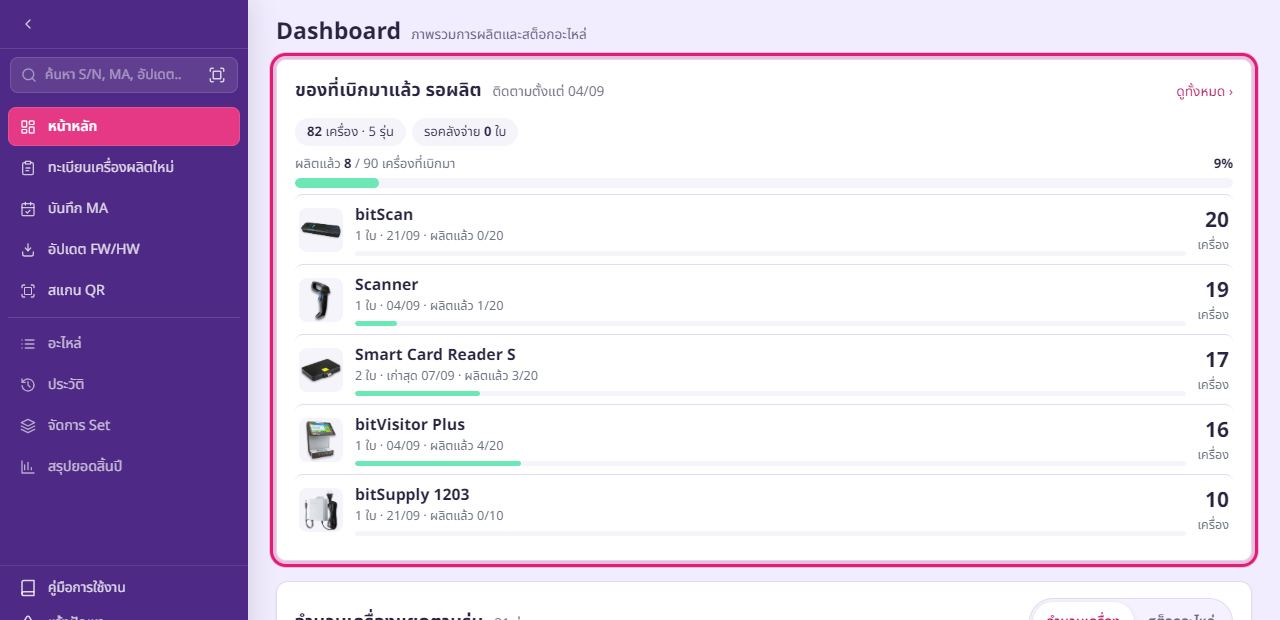
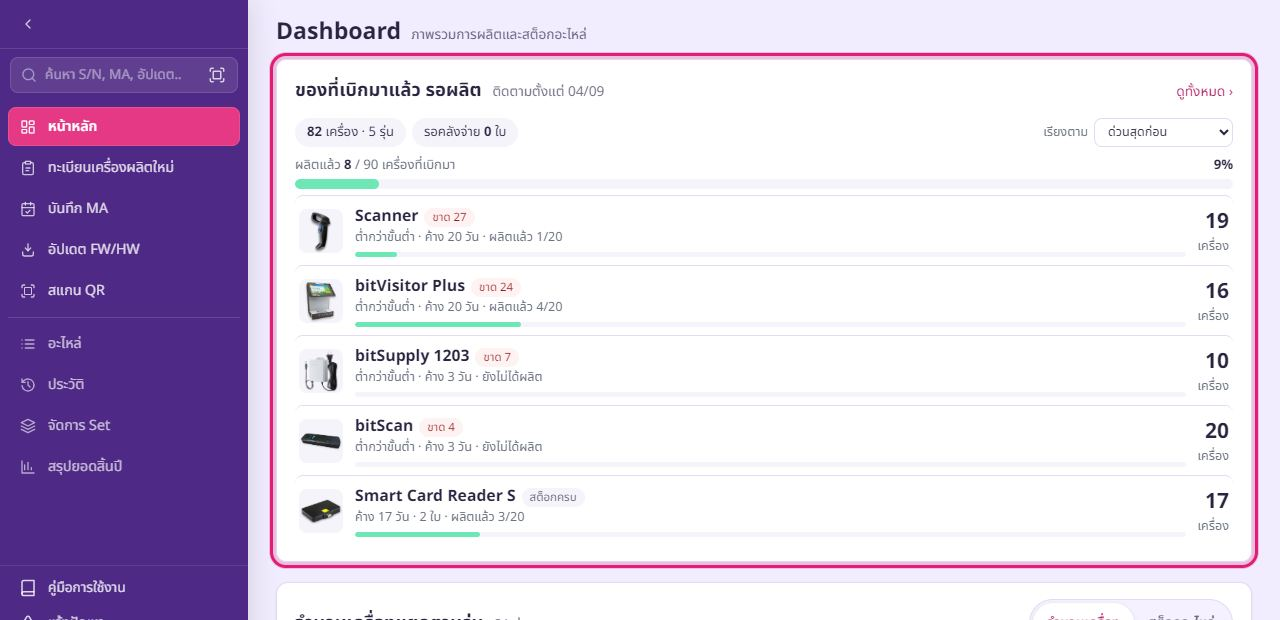
Show how urgent each withdrawn model is to build

diff --git a/finishgoogs_ma_update/assets/theme-v2.css b/finishgoogs_ma_update/assets/theme-v2.css
@@ -959,6 +959,14 @@ input:focus-visible, select:focus-visible, textarea:focus-visible, button:focus-
 .dash-pk-nm { flex: 1; min-width: 0; overflow-wrap: anywhere; }
 .dash-pk-nm small { display: block; color: var(--muted, #6b7280); font-size: calc(12px * var(--font-scale, 1)); }
 .dash-pk-miss { display: inline-block; font-size: 11.5px; background: #fef3c7; color: #854d0e; border-radius: 6px; padding: 0 6px; font-weight: 400; }
+/* ป้ายความขาดสต็อกของรุ่นนั้น — สี 3 ระดับเดียวกับหัวกลุ่มในตารางรุ่น */
+.dash-pk-tag { display: inline-block; margin-left: 6px; font-size: 11.5px; font-weight: 400; border-radius: 999px; padding: 1px 8px; }
+.dash-pk-tag.is-st0 { background: #fef2f2; color: #991b1b; }
+.dash-pk-tag.is-st1 { background: #fffbeb; color: #92400e; }
+.dash-pk-tag.is-st2 { background: var(--surface-2, #f6f4fb); color: var(--muted, #6b7280); }
+.dash-pk-sort { display: inline-flex; align-items: center; gap: 6px; margin-left: auto; font-size: calc(12px * var(--font-scale, 1)); color: var(--muted, #6b7280); white-space: nowrap; }
+.dash-pk-sort select { width: auto; min-width: 0; padding: 3px 24px 3px 9px; min-height: 0; font-size: calc(12px * var(--font-scale, 1)); }
+@media (max-width: 480px) { .dash-pk-sort { margin-left: 0; width: 100%; } .dash-pk-sort select { flex: 1; } }
 .dash-pk-q { text-align: right; font-size: calc(12px * var(--font-scale, 1)); color: var(--muted, #6b7280); white-space: nowrap; }
 .dash-pk-q b { display: block; font-size: calc(20px * var(--font-scale, 1)); color: var(--text, #2a2440); }
 .dash-pk-more { display: inline-block; margin-top: 6px; font-size: calc(13px * var(--font-scale, 1)); }

diff --git a/finishgoogs_ma_update/index.php b/finishgoogs_ma_update/index.php
@@ -457,6 +457,13 @@ $partsBase = ui_parts_base_url();
     <a class="dash-pk-stat" href="<?= h($B) ?>/inv_pickups.php?tab=waiting">รอคลังจ่าย <b id="dash-pk-waiting">—</b> ใบ</a>
     <a class="dash-pk-stat is-warn" id="dash-pk-unmatched-pill" href="<?= h($B) ?>/inv_pickups.php?tab=unmatched"
        title="เครื่องที่ลงทะเบียนตอนรุ่นนั้นไม่มีใบเบิกจาก inventory ค้างอยู่ — จับคู่กับใบเบิกทีหลังได้">ลงทะเบียนโดยไม่มีใบเบิก <b id="dash-pk-unmatched">—</b></a>
+    <label class="dash-pk-sort" for="dash-pk-sort"><span>เรียงตาม</span>
+      <select id="dash-pk-sort">
+        <option value="urgent">ด่วนสุดก่อน</option>
+        <option value="oldest">เบิกเก่าสุดก่อน</option>
+        <option value="left">เหลือมากสุดก่อน</option>
+      </select>
+    </label>
   </div>
   <div class="dash-pk-prog" id="dash-pk-prog" hidden>
     <div class="dash-pk-prog-lb"><span>ผลิตแล้ว <b id="dash-pk-done">0</b> / <span id="dash-pk-qty">0</span> เครื่องที่เบิกมา</span><b id="dash-pk-pct">0%</b></div>
@@ -757,20 +764,55 @@ $partsBase = ui_parts_base_url();
       document.getElementById('dash-pk-bar').style.cssText = 'width:' + pctOf(d.done, d.qty) + '%;background:' + d.bar;
       document.getElementById('dash-pk-prog').hidden = !d.qty;
       // รายรุ่น 5 อันดับแรก — กดแถวเปิด popup รายละเอียด (ใบเบิก · ของที่ยังไม่จ่าย · อะไหล่ที่จ่ายแล้ว)
+      // ป้าย = ความขาดสต็อกของรุ่นนั้น (เกณฑ์เดียวกับตารางรุ่นด้านล่าง) · บรรทัดรองบอกว่าของค้างมากี่วัน
       var SHOW = 5, list = document.getElementById('dash-pk-list'), models = d.models || [];
-      list.innerHTML = models.length ? models.slice(0, SHOW).map(function (m) {
-        return '<button type="button" class="dash-pk-row" data-grp="' + esc(m.grp) + '" data-name="' + esc(m.name) + '">'
-          + (m.icon ? '<img src="' + esc(m.icon) + '" alt="" class="dash-pk-img" loading="lazy">' : '<span class="dash-pk-img dash-pk-noimg"></span>')
-          + '<span class="dash-pk-nm"><b>' + esc(m.name) + '</b>'
-          + (m.missing.length ? ' <span class="dash-pk-miss">' + esc(m.missing.slice(0, 2).join(', ')) + ' ยังไม่จ่าย</span>' : '')
-          + '<small>' + m.docs + ' ใบ · ' + (m.docs > 1 ? 'เก่าสุด ' : '') + esc(m.oldest)
-          + ' · ผลิตแล้ว ' + fgNum(m.done) + '/' + fgNum(m.qty) + '</small>'
-          + '<span class="pk-bar pk-bar-row"><span style="width:' + pctOf(m.done, m.qty) + '%;background:' + d.bar + '"></span></span></span>'
-          + '<span class="dash-pk-q"><b>' + fgNum(m.left) + '</b>เครื่อง</span></button>';
-      }).join('') : '<p class="muted" style="margin:6px 0 0">ไม่มีของที่เบิกมารอผลิต</p>';
+      var stageLabel = ['ต่ำกว่าขั้นต่ำ', 'ไม่พอส่ง PO', ''];
+      var pkSorters = {
+        urgent: function (a, b) { return a.stage - b.stage || b.gap - a.gap || b.days - a.days || b.left - a.left; },
+        oldest: function (a, b) { return b.days - a.days || a.stage - b.stage || b.left - a.left; },
+        left: function (a, b) { return b.left - a.left || a.stage - b.stage || b.days - a.days; }
+      };
+      var pkSortSel = document.getElementById('dash-pk-sort');
+      var pkSort = 'urgent';
+      try { pkSort = localStorage.getItem('dash_pk_sort') || 'urgent'; } catch (e) {}
+      if (!pkSorters[pkSort]) { pkSort = 'urgent'; }
       var more = document.getElementById('dash-pk-more');
-      more.hidden = models.length <= SHOW;
-      more.textContent = '+ อีก ' + (models.length - SHOW) + ' รุ่น ›';
+      function drawPk() {
+        if (!models.length) {
+          list.innerHTML = '<p class="muted" style="margin:6px 0 0">ไม่มีของที่เบิกมารอผลิต</p>';
+          more.hidden = true;
+          return;
+        }
+        var rows = models.slice().sort(pkSorters[pkSort]);
+        list.innerHTML = rows.slice(0, SHOW).map(function (m) {
+          var tag = m.gap > 0
+            ? '<span class="dash-pk-tag is-st' + m.stage + '">ขาด ' + fgNum(m.gap) + '</span>'
+            : '<span class="dash-pk-tag is-st2">สต็อกครบ</span>';
+          var sub = [];
+          if (stageLabel[m.stage]) { sub.push(stageLabel[m.stage]); }
+          sub.push('ค้าง ' + fgNum(m.days) + ' วัน');
+          if (m.docs > 1) { sub.push(m.docs + ' ใบ'); }
+          sub.push(m.done > 0 ? 'ผลิตแล้ว ' + fgNum(m.done) + '/' + fgNum(m.qty) : 'ยังไม่ได้ผลิต');
+          return '<button type="button" class="dash-pk-row" data-grp="' + esc(m.grp) + '" data-name="' + esc(m.name) + '">'
+            + (m.icon ? '<img src="' + esc(m.icon) + '" alt="" class="dash-pk-img" loading="lazy">' : '<span class="dash-pk-img dash-pk-noimg"></span>')
+            + '<span class="dash-pk-nm"><b>' + esc(m.name) + '</b>' + tag
+            + (m.missing.length ? ' <span class="dash-pk-miss">' + esc(m.missing.slice(0, 2).join(', ')) + ' ยังไม่จ่าย</span>' : '')
+            + '<small>' + esc(sub.join(' · ')) + '</small>'
+            + '<span class="pk-bar pk-bar-row"><span style="width:' + pctOf(m.done, m.qty) + '%;background:' + d.bar + '"></span></span></span>'
+            + '<span class="dash-pk-q"><b>' + fgNum(m.left) + '</b>เครื่อง</span></button>';
+        }).join('');
+        more.hidden = models.length <= SHOW;
+        more.textContent = '+ อีก ' + (models.length - SHOW) + ' รุ่น ›';
+      }
+      if (pkSortSel) {
+        pkSortSel.value = pkSort;
+        pkSortSel.addEventListener('change', function () {
+          pkSort = pkSorters[pkSortSel.value] ? pkSortSel.value : 'urgent';
+          try { localStorage.setItem('dash_pk_sort', pkSort); } catch (e) {}
+          drawPk();
+        });
+      }
+      drawPk();
       list.onclick = function (e) {
         var b = e.target.closest('.dash-pk-row');
         if (!b) { return; }

diff --git a/finishgoogs_ma_update/guide.php b/finishgoogs_ma_update/guide.php
@@ -72,7 +72,8 @@ $topics = [
         'intro' => 'ของที่เบิกจากระบบ inventory ลงมาแล้ว ต้องผลิตรุ่นไหนอีกกี่เครื่อง',
         'steps' => [
             'เปิดจาก <b>Dashboard</b> การ์ด <b>ของที่เบิกมาแล้ว รอผลิต</b> → <b>ดูทั้งหมด</b> หรือปุ่ม <b>ใบเบิกรอผลิต</b> ในหน้ารายการเครื่อง',
-            'การ์ดบน Dashboard บอกยอดรวม <b>ผลิตแล้ว / เบิกมา</b> พร้อมแถบความคืบหน้า และรุ่นที่รอผลิตมากสุด 5 อันดับ',
+            'การ์ดบน Dashboard บอกยอดรวม <b>ผลิตแล้ว / เบิกมา</b> พร้อมแถบความคืบหน้า และรุ่นที่ต้องผลิต 5 อันดับแรก เรียงจากด่วนสุดก่อน',
+            'ป้ายข้างชื่อรุ่นบอกว่ารุ่นนั้น<b>ขาดสต็อก</b>กี่เครื่อง (แดง = ต่ำกว่าขั้นต่ำ · เหลือง = ไม่พอส่ง PO · เทา = สต็อกครบแล้ว) บรรทัดรองบอกว่าของ<b>ค้างมากี่วัน</b>แล้ว · เปลี่ยนวิธีเรียงได้ที่เมนู <b>เรียงตาม</b> (ด่วนสุด / เบิกเก่าสุด / เหลือมากสุด)',
             'กดที่ชื่อรุ่นบนการ์ด — เห็นทีละใบเบิกว่าใครเบิก เบิกมากี่เครื่อง ผลิตไปแล้วกี่เครื่อง <b>S/N ที่ผลิตจากใบนั้น</b> และอะไหล่ที่คลังจ่ายมา',
             'ในหน้าใบเบิกรอผลิต มี 3 แท็บ: <b>รอผลิต</b> (ของมาถึงแล้ว ผลิตได้เลย) · <b>รอคลังจ่าย</b> (ขอเบิกแล้วแต่คลังยังไม่จ่าย) · <b>ผลิตครบ</b>',
             'ลงทะเบียนเครื่องผลิตใหม่ตามปกติ — ระบบตัดยอดใบเบิกของรุ่นนั้นให้เอง <b>ใบเก่าสุดก่อน</b> · หน้ายืนยันก่อนบันทึกบอกว่าจะตัดจากใบไหน',
@@ -188,8 +189,8 @@ $shots = [
                     5 => ['asset-actions', 'หน้าเครื่อง: ปุ่มบันทึก MA และเมนูอื่นๆ', '', 'หน้าเครื่องบนคอม: ปุ่มคำสั่งทั้งหมดเรียงแถวเดียว']],
     'produce'   => [3 => ['produce-units', 'กดสแกนต่อเนื่อง แล้วสแกนทีละเครื่อง'], 8 => ['produce-save', 'ท้ายฟอร์ม: Checklist แล้วปุ่มบันทึกทั้งชุด', '', 'ชุดอะไหล่ที่จะเบิก และปุ่มบันทึกทั้งชุด']],
     'pickup'    => [0 => ['pickup-card', 'การ์ด "ของที่เบิกมาแล้ว รอผลิต" บน Dashboard'],
-                    2 => ['pickup-pop', 'กดที่ชื่อรุ่น — เห็นใบเบิก S/N ที่ผลิตแล้ว และอะไหล่ที่คลังจ่าย'],
-                    3 => ['pickup-queue', 'หน้าใบเบิกรอผลิต — แท็บรอผลิต / รอคลังจ่าย / ผลิตครบ']],
+                    3 => ['pickup-pop', 'กดที่ชื่อรุ่น — เห็นใบเบิก S/N ที่ผลิตแล้ว และอะไหล่ที่คลังจ่าย'],
+                    4 => ['pickup-queue', 'หน้าใบเบิกรอผลิต — แท็บรอผลิต / รอคลังจ่าย / ผลิตครบ']],
     'ma'        => [2 => ['ma-form', 'เลือกสถานะเครื่องหลังตรวจ']],
     'update'    => [3 => ['update-form', 'ใส่ค่าใหม่ของเฟิร์มแวร์/ชิ้นส่วน']],
     'parts'     => [1 => ['parts-list', 'ปุ่มรับเข้า · เบิกรายชิ้น · เบิก Set']],

diff --git a/finishgoogs_ma_update/dashboard_data.php b/finishgoogs_ma_update/dashboard_data.php
@@ -942,12 +942,35 @@ switch ($type) {
             }
         }
         $out['ready_models'] = count($groups);
-        // รายรุ่นสำหรับการ์ด (แบบ ก) — กลุ่มรุ่นที่รอผลิต เรียงเหลือมากสุดก่อน
+        // รายรุ่นสำหรับการ์ด — กลุ่มรุ่นที่รอผลิต พร้อมความเร่งด่วน (ขาดสต็อก + ค้างมากี่วัน)
         $icons = [];
-        $ir = db()->query('SELECT id, icon_path FROM products');
+        $pcodes = [];
+        $ir = db()->query('SELECT id, icon_path, product_code FROM products');
         while ($x = $ir->fetch_row()) {
             $icons[(int) $x[0]] = (string) $x[1];
+            $pcodes[(int) $x[0]] = strtoupper(trim((string) $x[2]));
         }
+        // ยอดขาดรายรุ่น — ชุดเดียวกับตาราง "จำนวนเครื่องแยกตามรุ่น" (มี cache ของตัวเอง)
+        require_once dirname(__DIR__) . '/shared/finishgood_shortage_dashboard.php';
+        $fgMap = fg_model_stock_map();
+        $fgCodes = !empty($fgMap['ok']) ? $fgMap['codes'] : [];
+        // 0 = ต่ำกว่าขั้นต่ำ (ด่วน) · 1 = ถึงขั้นต่ำแต่ไม่พอส่ง PO · 2 = สต็อกครบ
+        $fgStage = function (array $pids) use ($pcodes, $fgCodes) {
+            $stage = 2;
+            $gap = 0;
+            foreach ($pids as $p) {
+                $row = $fgCodes[$pcodes[$p] ?? ''] ?? null;
+                if (!$row) {
+                    continue;
+                }
+                $g = (int) ($row['gap'] ?? 0);
+                $gap = max($gap, $g);
+                if ($g > 0) {
+                    $stage = min($stage, (int) $row['have'] < (int) $row['min'] ? 0 : 1);
+                }
+            }
+            return [$stage, $gap];
+        };
         $models = [];
         foreach ($d['items'] as $it) {
             if ($it['state'] !== 'ready') {
@@ -962,8 +985,9 @@ switch ($type) {
                         break;
                     }
                 }
+                [$stage, $gap] = $fgStage($it['products']);
                 $models[$g] = ['grp' => $g, 'name' => $it['model'], 'icon' => $icon, 'left' => 0, 'qty' => 0, 'done' => 0,
-                               'docs' => 0, 'oldest' => $it['date'], 'missing' => []];
+                               'docs' => 0, 'oldest' => $it['date'], 'stage' => $stage, 'gap' => $gap, 'days' => 0, 'missing' => []];
             }
             $models[$g]['left'] += $it['left'];
             $models[$g]['qty'] += $it['qty'];
@@ -974,8 +998,13 @@ switch ($type) {
                 $models[$g]['missing'][preg_replace('/\s*\(.*$/u', '', $m)] = true;
             }
         }
-        usort($models, function ($a, $b) { return [$b['left'], $a['name']] <=> [$a['left'], $b['name']]; });
+        // ด่วนสุดก่อน: ต่ำกว่าขั้นต่ำ → ไม่พอส่ง PO → ครบ · ในกลุ่มเรียงขาดมากสุด แล้วค้างนานสุด
+        usort($models, function ($a, $b) {
+            return [$a['stage'], -$a['gap'], $a['oldest'], -$a['left']] <=> [$b['stage'], -$b['gap'], $b['oldest'], -$b['left']];
+        });
+        $today = strtotime(date('Y-m-d'));
         foreach ($models as &$m) {
+            $m['days'] = max(0, (int) round(($today - strtotime(substr($m['oldest'], 0, 10))) / 86400));
             $m['oldest'] = date('d/m', strtotime($m['oldest']));
             $m['missing'] = array_keys($m['missing']);
         }
